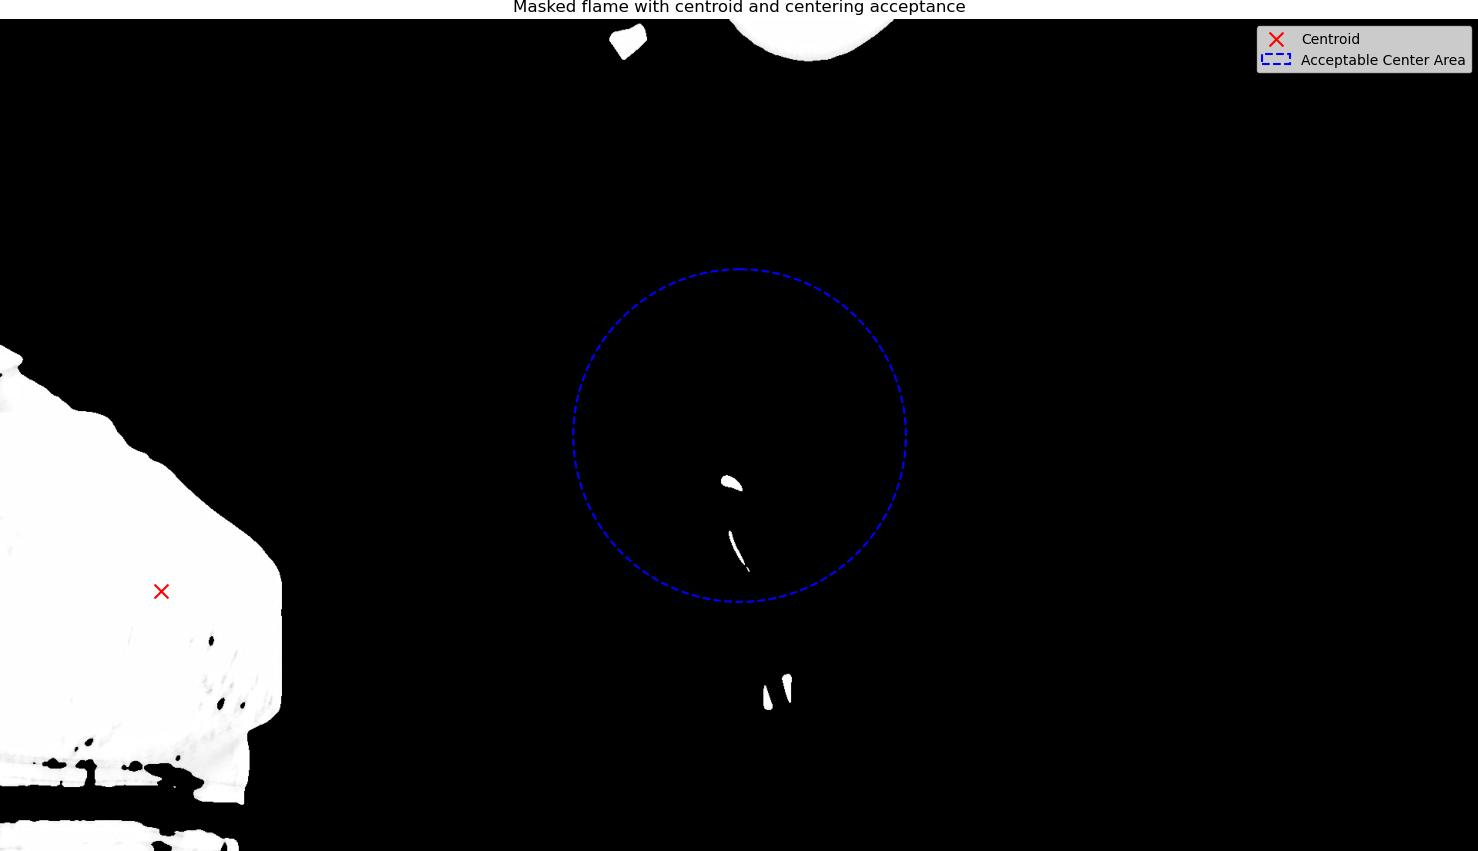
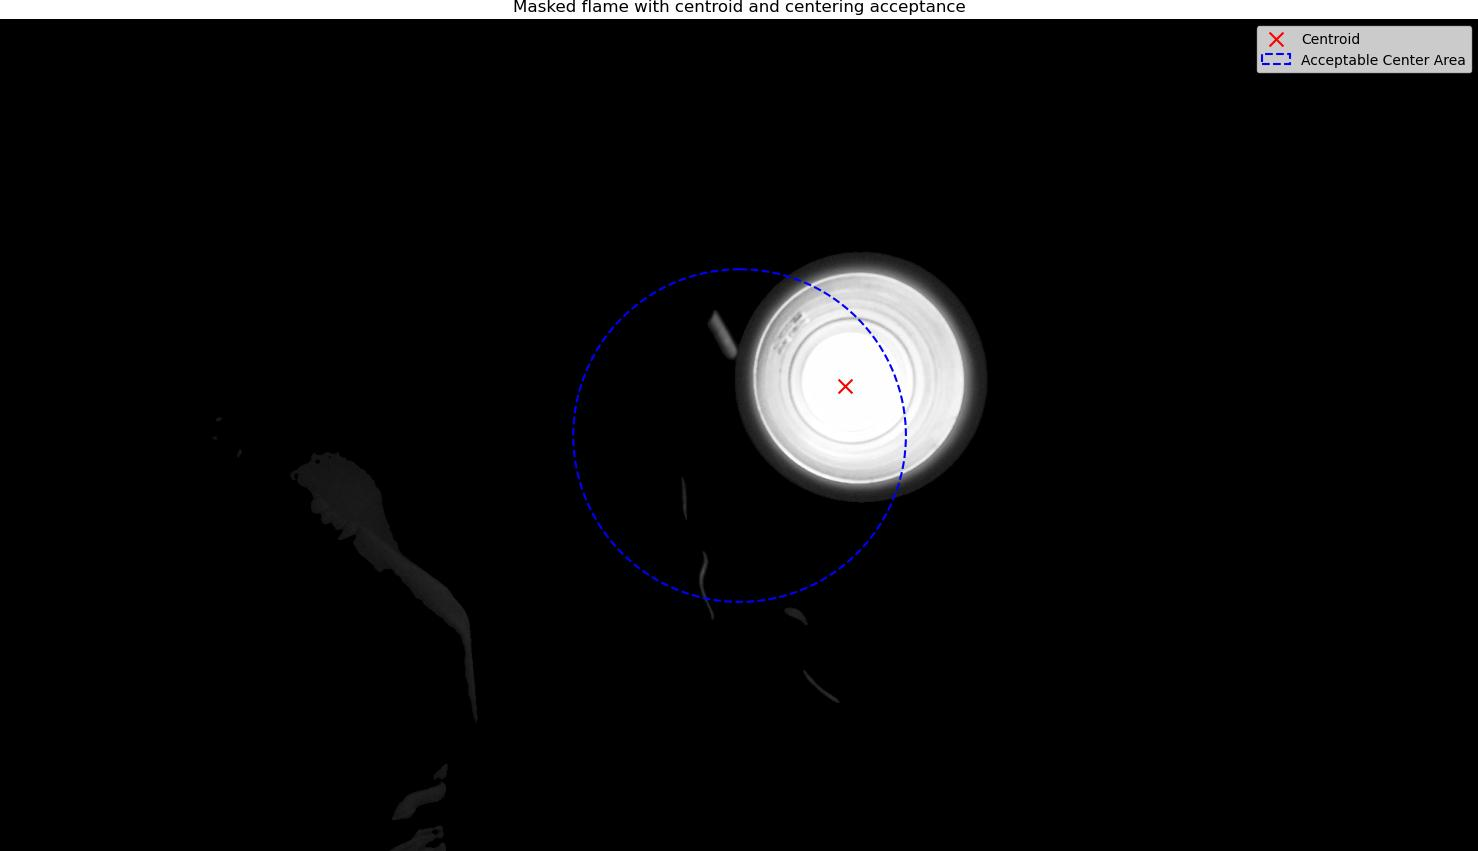
docs: show working image

diff --git a/HPFilter.py b/HPFilter.py
@@ -8,7 +8,7 @@ import matplotlib.pyplot as plt
 import matplotlib.patches as patches
 
 # Loading data
-img = Image.open('Image3.jpg')
+img = Image.open('Image1.jpg')
 data = np.array(img, dtype=float)
 
 # Convert image to grayscale
